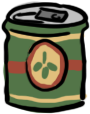
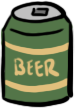
minor stuff

diff --git a/Assets/Scripts/World/WorldMapCameraHandler.cs b/Assets/Scripts/World/WorldMapCameraHandler.cs
@@ -13,15 +13,16 @@ public class WorldMapCameraHandler : MonoBehaviour
     private Game Game;
     public Camera Camera { get; private set; }
 
-    protected static float ZOOM_SPEED = 0.8f; // Mouse Wheel Speed
-    protected static float DRAG_SPEED = 0.025f; // Middle Mouse Drag Speed
-    protected static float PAN_SPEED = 20f; // WASD Speed
-    protected static float MIN_CAMERA_SIZE = 4f;
-    protected static float MAX_CAMERA_SIZE = 6.5f;
-    private static float EDGE_PADDING = 10f; // Padding from the edge of the map when zooming/panning
-    protected bool IsLeftMouseDown;
-    protected bool IsRightMouseDown;
-    protected bool IsMouseWheelDown;
+    private const float ZOOM_SPEED = 0.5f; // Mouse Wheel Speed
+    private const float DRAG_SPEED = 0.025f; // Middle Mouse Drag Speed
+    private const float PAN_SPEED = 20f; // WASD Speed
+    private const float MIN_CAMERA_SIZE = 2f;
+    private const float MAX_CAMERA_SIZE = 4f;
+    private const float INITIAL_CAMERA_SIZE = 3f;
+    private const float EDGE_PADDING = 10f; // Padding from the edge of the map when zooming/panning
+    private bool IsLeftMouseDown;
+    private bool IsRightMouseDown;
+    private bool IsMouseWheelDown;
 
     // Size
     private float CameraHeightWorld => Camera.orthographicSize;
@@ -44,6 +45,7 @@ public class WorldMapCameraHandler : MonoBehaviour
     {
         Game = game;
         Camera = GetComponent<Camera>();
+        SetZoom(INITIAL_CAMERA_SIZE);
     }
 
 
@@ -69,7 +71,7 @@ public class WorldMapCameraHandler : MonoBehaviour
         if (Input.GetKeyUp(KeyCode.Mouse2)) IsMouseWheelDown = false;
         if (Input.GetKeyDown(KeyCode.Mouse1)) IsRightMouseDown = true;
         if (Input.GetKeyUp(KeyCode.Mouse1)) IsRightMouseDown = false;
-        if (IsMouseWheelDown)
+        if (IsMouseWheelDown || IsRightMouseDown)
         {
             float speed = DRAG_SPEED * Camera.orthographicSize;
             float canvasScaleFactor = Game.UI.GetComponentInParent<Canvas>().scaleFactor;

diff --git a/Assets/Scripts/Items/ItemDragDropManager.cs b/Assets/Scripts/Items/ItemDragDropManager.cs
@@ -258,7 +258,7 @@ public static class ItemDragDropManager
         if (Game.Instance == null) return;
 
         float offScreenMaxX = 12f;
-        float offScreenMinX = OFF_SCREEN_MIN_X + EncounterCamera.Instance.transform.position.x;
+        float offScreenMinX = OFF_SCREEN_MIN_X + Game.Instance.CurrentEncounter.Def.CameraXOffset;
 
         if (EncounterCamera.Instance.Camera.orthographicSize > EncounterCamera.DEFAULT_CAMERA_SIZE)
         {

diff --git a/Assets/Scripts/Items/ItemDefs.cs b/Assets/Scripts/Items/ItemDefs.cs
@@ -58,7 +58,7 @@ public static class ItemDefs
             Value = 2,
             ConsumptionProperties = new ConsumptionProperties()
             {
-                ConsumptionType = ConsumptionTypeDefOf.Food,
+                ConsumptionType = ConsumptionTypeDefOf.Drink,
                 Nutrition = 0.5f,
                 Hydration = 1.5f,
                 AppliedHealthCondition = HealthConditionDefOf.Intoxication,

diff --git a/Assets/Documentation/art-guide.md b/Assets/Documentation/art-guide.md
@@ -14,7 +14,7 @@ Item sprites are generally diagonally angled from bottom left to top right.
 Make 2 layers: Outlines in front and Fill in back.
 
 OUTLINE
-For outlines, use black color, 12px, 100% hardness
+For outlines, use black color, 10px, 100% hardness
 100% opacity, and 100% flow.
 Activate pen pressure for size.
 
